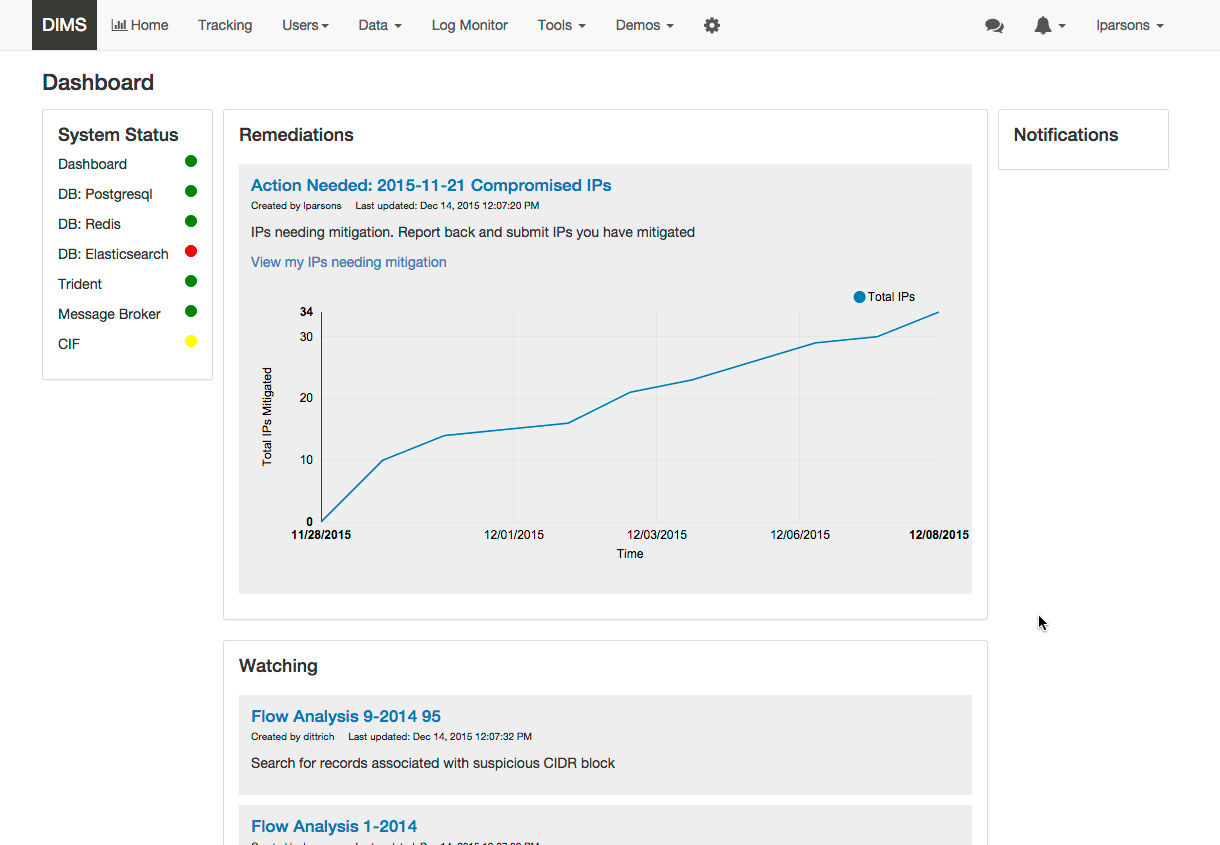
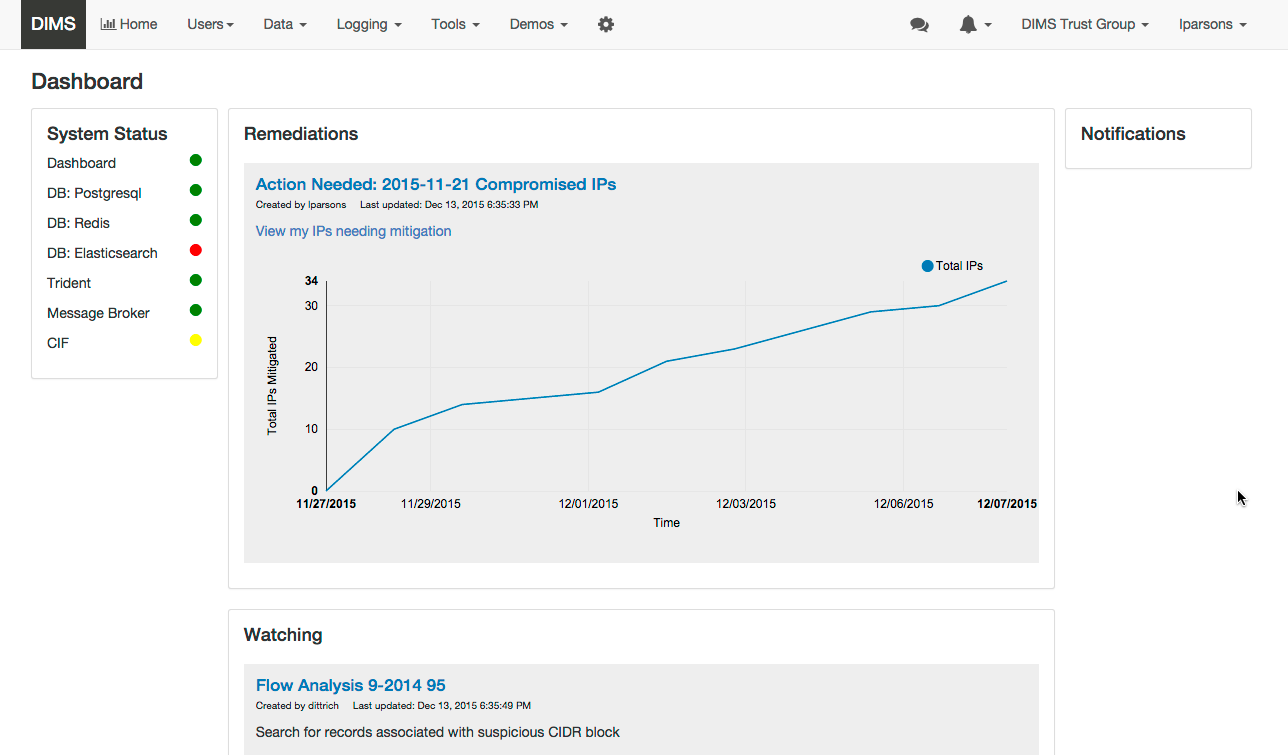
Update demo docs with instructions

diff --git a/docs/source/using.rst b/docs/source/using.rst
@@ -5,76 +5,96 @@ Using the Dashboard
 
 This section will introduce basic usage of the DIMS Dashboard.
 
-Currently this section contains a demo runthrough with commentary.
+Currently this section contains a demo runthrough with commentary. The following
+sub-sections will go through the:
 
-1. Go to ``demo.prisem.washington.edu`` and log in using your ops-trust username
-   and password.
+#. Mitigation Scenario
+#. Live log streaming
+#. Chat
+#. User display and trust group info - show users by trust group
 
-2. The main dashboard will display. A static (for now) **System Status** summary
-   is on the left.
+..
 
-  .. figure:: demo/dashboard.png
-     :width: 100%
-     :align: left
+The demo application is not using https, so you won't need to worry about
+certificates when logging in.
 
-  ..
+Mitigation Scenario
+-------------------
 
+Go to ``demo.prisem.washington.edu`` and log in using your ops-trust username
+and password.
 
-3. **Remediations** are mitigation activities in the system where the logged in
-   user has IPs that are compromised and need to be remediated.
-   Currently the system contains one of these
-   "Mitigation scenario" activities which was bootstrapped programmatically.
+The main dashboard will display. A static (for now) **System Status** summary
+is on the left.
 
-   Hover over the graph to display data points. Note the number of mitigated IPs
-   at the most recent data point:
+.. figure:: demo/dashboard.png
+   :width: 100%
+   :align: left
 
-   .. figure:: demo/remediations1.png
-     :width: 100%
-     :align: left
-
-   ..
-
-   Click “View my IPs needing mitigation” link to display a modal window where the user can
-   submit IPs that have been mitigated. Right now the UI for this consists of the modal
-   displaying all remaining IPs the user needs to address.
+..
 
 
-   .. figure:: demo/view_my_ips.png
-     :width: 100%
-     :align: left
+**Remediations are mitigation activities in the system** where the logged in
+user has IPs that are compromised and need to be remediated.
+Currently the system contains one of these
+"Mitigation scenario" activities which was bootstrapped programmatically.
 
-   ..
+**Hover over the graph to display data points.** Note the number of mitigated IPs
+at the most recent data point:
 
-   This mitigation activity has IPs that need to be remediated for the users
-   dittrich, lparsons, mboggess, and swarner. So your IPs will look different
-   than those in this figure.
+.. figure:: demo/remediations1.png
+   :width: 100%
+   :align: center
 
-   .. figure:: demo/remediations2.png
-     :width: 100%
-     :align: left
+..
 
-   ..
 
-   Check off some IPs indicating that they have been mitigated and click *Submit*.
+Click **View my IPs needing mitigation** link to display a modal window where the user can
+submit IPs that have been mitigated. Right now the UI for this consists of the modal
+displaying all remaining IPs the user needs to address.
 
-   .. figure:: demo/remediations3.png
-     :width: 100%
-     :align: left
+.. figure:: demo/view_my_ips.png
+   :width: 100%
+   :align: center
 
-   ..
+..
 
-   The modal window will close and the graph will be updated. Hover over the
-   last data point to verify. For this user, the total IPs mitigated is now 39.
+This mitigation activity has IPs that need to be remediated for the users
+dittrich, lparsons, mboggess, and swarner. So your IPs will look different
+than those in this figure.
 
-   .. figure:: demo/remediations4.png
-     :width: 100%
-     :align: left
+.. figure:: demo/remediations2.png
+   :width: 100%
+   :align: center
 
-   ..
+..
+
+
+
+**Check off some IPs indicating that they have been mitigated** and click *Submit*.
+
+.. figure:: demo/remediations3.png
+   :width: 100%
+   :align: center
+
+..
+
+
+The modal window will close and the graph will be updated. Hover over the
+last data point to verify. For this user, the total IPs mitigated is now 39.
+
+.. figure:: demo/remediations4.png
+   :width: 100%
+   :align: center
+
+..
+
+.. note::
 
    Currently, to start a new mitigation activity, a user will do so via the
    Dashboard (UI not available yet), using a form to submit the suspect IPs
-   that the user probably received on a Trident email list.  The system then automatically parses the list and bins the IPs according to attributes belonging
+   that the user probably received on a Trident email list.  The system then automatically
+   parses the list and bins the IPs according to attributes belonging
    to users, creating a new activity that will appear in the Remediations list for
    those users that are affected. There will also be some sort of notification.
    (In the future this creation would be automated by a service that can process
@@ -82,29 +102,30 @@ Currently this section contains a demo runthrough with commentary.
 
 ..
 
-4. The **Watching** section lists Activities that the user has subscribed to, either by
-   subscribing to a public activity created by someone else or by creating a new
-   activity.
+The **Watching** section lists Activities that the user has subscribed to, either by
+subscribing to a public activity created by someone else or by creating a new
+activity.
 
-   .. figure:: demo/activities.png
-     :width: 100%
-     :align: left
-
-   ..
-
-   Activities are collections of data, queries, etc. They can be public or
-   private.  If a user subscribes to a public activity, the user receives a notification
-   when new data is added to the activity. This is a first cut at the UI, and most of the
-   UI display/functions (creating, sharing, subscribing) are currently in progress and
-   not online
-   (server side API and associated modules exist).
-
-   I’m not sure how much more of the UI display of Activities I’ll get done by Tuesday,
-   but at least you can see the  list display.
+.. figure:: demo/activities.png
+  :width: 100%
+  :align: center
 
 ..
 
-5. *Live log streams* - The live long monitoring is now a popup panel so as
+Activities are collections of data, queries, etc. They can be public or
+private.  If a user subscribes to a public activity, the user receives a notification
+when new data is added to the activity. This is a first cut at the UI, and most of the
+UI display/functions (creating, sharing, subscribing) are currently in progress and
+not online
+(server side API and associated modules exist). The only thing you can see right
+now in the UI is the list of activities.
+
+..
+
+Live log streaming
+------------------
+
+1. *Live log streams* - The live long monitoring is now a popup panel so as
    to persist data across page views.
    That means the buffers won't be cleared if you go to a different section on the
    site (new page load).
@@ -120,42 +141,150 @@ Currently this section contains a demo runthrough with commentary.
    Click **Logging** in the Navigation bar and select **Live log streaming**.
    The Live log streaming window anchored to the bottom of the window will display.
 
+   .. figure:: demo/logmon1.png
+      :width: 100%
+      :align: center
 
-   There are tabs for the log exchanges the server monitors. Each tab has a button to turn on/turn off that particular log monitor. The user can clear the buffer using the “Clear” button. The user can hide the window by clicking the minimize button, and then maximize it by clicking the maximize button.  Clicking the close button (X) turns off all monitors and closes the window. The window can also be closed by clicking “Log Monitor” in the Nav bar. (This is  a toggle - if the window is active, clicking it closes the window. If the window is closed, clicking the button opens the window.)
+   ..
 
-   The Log Monitors window, like the Chat window, is independent of other page views. So it will remain active even if you go to a different view via a menu or navigation button.
+   There are tabs for the log exchanges the server monitors. Each tab has a button to turn on/
+   turn off that particular log monitor. The user can clear the buffer using the “Clear” button.
+   The user can hide the window by clicking the minimize button, and then maximize it by
+   clicking the maximize button.  Clicking the close button (X) turns off all monitors and
+   closes the window. The window can also be closed by clicking “Log Monitor” in the Nav bar.
+   (This is  a toggle - if the window is active, clicking it closes the window. If the
+   window is closed, clicking the button opens the window.)
 
-   So, clicking on Devops tab and click button “Turn on Devops":
+   The Log Monitors window, like the Chat window, is independent of other page views.
+   So it will remain active even if you go to a different view via a menu or
+   navigation button.
 
-   Do the same for Health:
+2. Click on Devops tab and click button **Turn on Devops**
 
-   You could start an activity that reports to devops, or wait a couple minutes and you’ll probably get info on Health:
+   .. figure:: demo/logmon2.png
+      :width: 100%
+      :align: center
+
+   ..
+
+   .. figure:: demo/logmon3.png
+      :width: 100%
+      :align: center
+
+   ..
 
 
-   Click the minimize button:
+3. Do the same for Health - click on Health tab and click button **Turn on Health**
+
+
+4. You could start an activity that reports to devops via another program, or wait a
+   couple minutes and you’ll probably get info on Health
+
+
+5. Click the minimize button:
+
+   .. figure:: demo/minimize.png
+      :width: 100%
+      :align: center
+
+   ..
 
    and the logs will minimize to the bottom of the window.
 
-   Then click maximize to open it again. The messages will still be there (maybe more).
+6. Then click maximize to open it again.
 
-   You can go to different locations in the app without clearing the log buffers. So go to Users > Find DIMS users for example:
+   .. figure:: demo/maximize1.png
+      :width: 100%
+      :align: center
 
-   (I didn’t show the result since there is personal data in the show users function.)
+   ..
 
-   Minimize the log display to view the results.
+   The messages will still be there (maybe more).
 
-   You can clear the log buffers individually by clicking “Clear” in a log tab. To clear all the buffers and close the display, click the “Log Monitor” link in the nav bar or just click the “X” in the monitor window title bar.
+   .. figure:: demo/maximize2.png
+      :width: 100%
+      :align: center
+
+   ..
+
+   You can go to different locations in the app without clearing the log buffers. So go to
+   **Users > Find DIMS users** to display users in your current trust group. The
+   users will display behind the streaming window. Minimize the streaming log display
+   to view the users:
+
+   .. figure:: demo/minimize.png
+      :width: 100%
+      :align: center
+
+   ..
+
+7. You can clear the log buffers individually by clicking **Clear** in a log tab.
+   To clear all the buffers and close the display, click the **Log Monitor** link in
+   the nav bar or just click the **X** in the monitor window title bar.
 
 ..
 
-6. Chat - click the chat icon in the Nav bar to open the chat window. Unless you’re
+Chat
+----
+
+1. Click the chat icon in the Nav bar to open the chat window. Unless you’re
    chatting with someone else who is logged in, there isn’t much to see (you can send messages to yourself).
 
 ..
 
-7. User information - I haven’t had time yet to update the UI to handle the new
-   information it can get from the server regarding the user’s trust groups, and the Attributes are still in a different tab than the profile data (not sure if I will have time to put them in the same tab by Tuesday or not - I will try). But you can show that the Dashboard displays User information collected from various sources in one UI.
+User display and trust groups
+-----------------------------
 
-   Get your user information via dittrich > Profile on the left side of the nav bar.
+1. Note that the name of the trust group you are logged into displays on the menu
+   bar:
 
+   .. figure:: demo/tginnavbar.png
+      :width: 100%
+      :align: center
+
+   ..
+
+   The system remembers your last selection. If you have never selected a trust group,
+   it will choose the first one in your list of trust groups when you first log in.
+
+2. Display your profile information by selection ``dittrich > Profile`` in the nav bar.
+   Note that the trust group info now displays in the profile.
+
+   .. figure:: demo/dimstrustgroupinprofile.png
+      :width: 100%
+      :align: center
+
+   ..
+
+3. Change your trust group by clicking on the current trust group in the nav bar and
+   selecting an option that displays in the menu. (If you are only in one trust group
+   then no options will display.)
+
+   .. figure:: demo/changetrustgroup1.png
+      :width: 100%
+      :align: center
+
+   ..
+
+4. Note that the trust group listed in your profile will change to the current
+   trust group:
+
+   .. figure:: demo/maintrustgroup.png
+      :width: 100%
+      :align: center
+
+   ..
+
+5. To see the users in your currently selected trust group, select
+   ``Users > Find DIMS Users`` on the nav bar. The list of users in the current trust
+   group will display.
+
+6. Again, change the trust group via the trust group menu in the nav bar. The list of
+   users will change to reflect the users in the new current trust group.
+
+   .. figure:: demo/changetodims.png
+      :width: 100%
+      :align: center
+
+   ..
 
